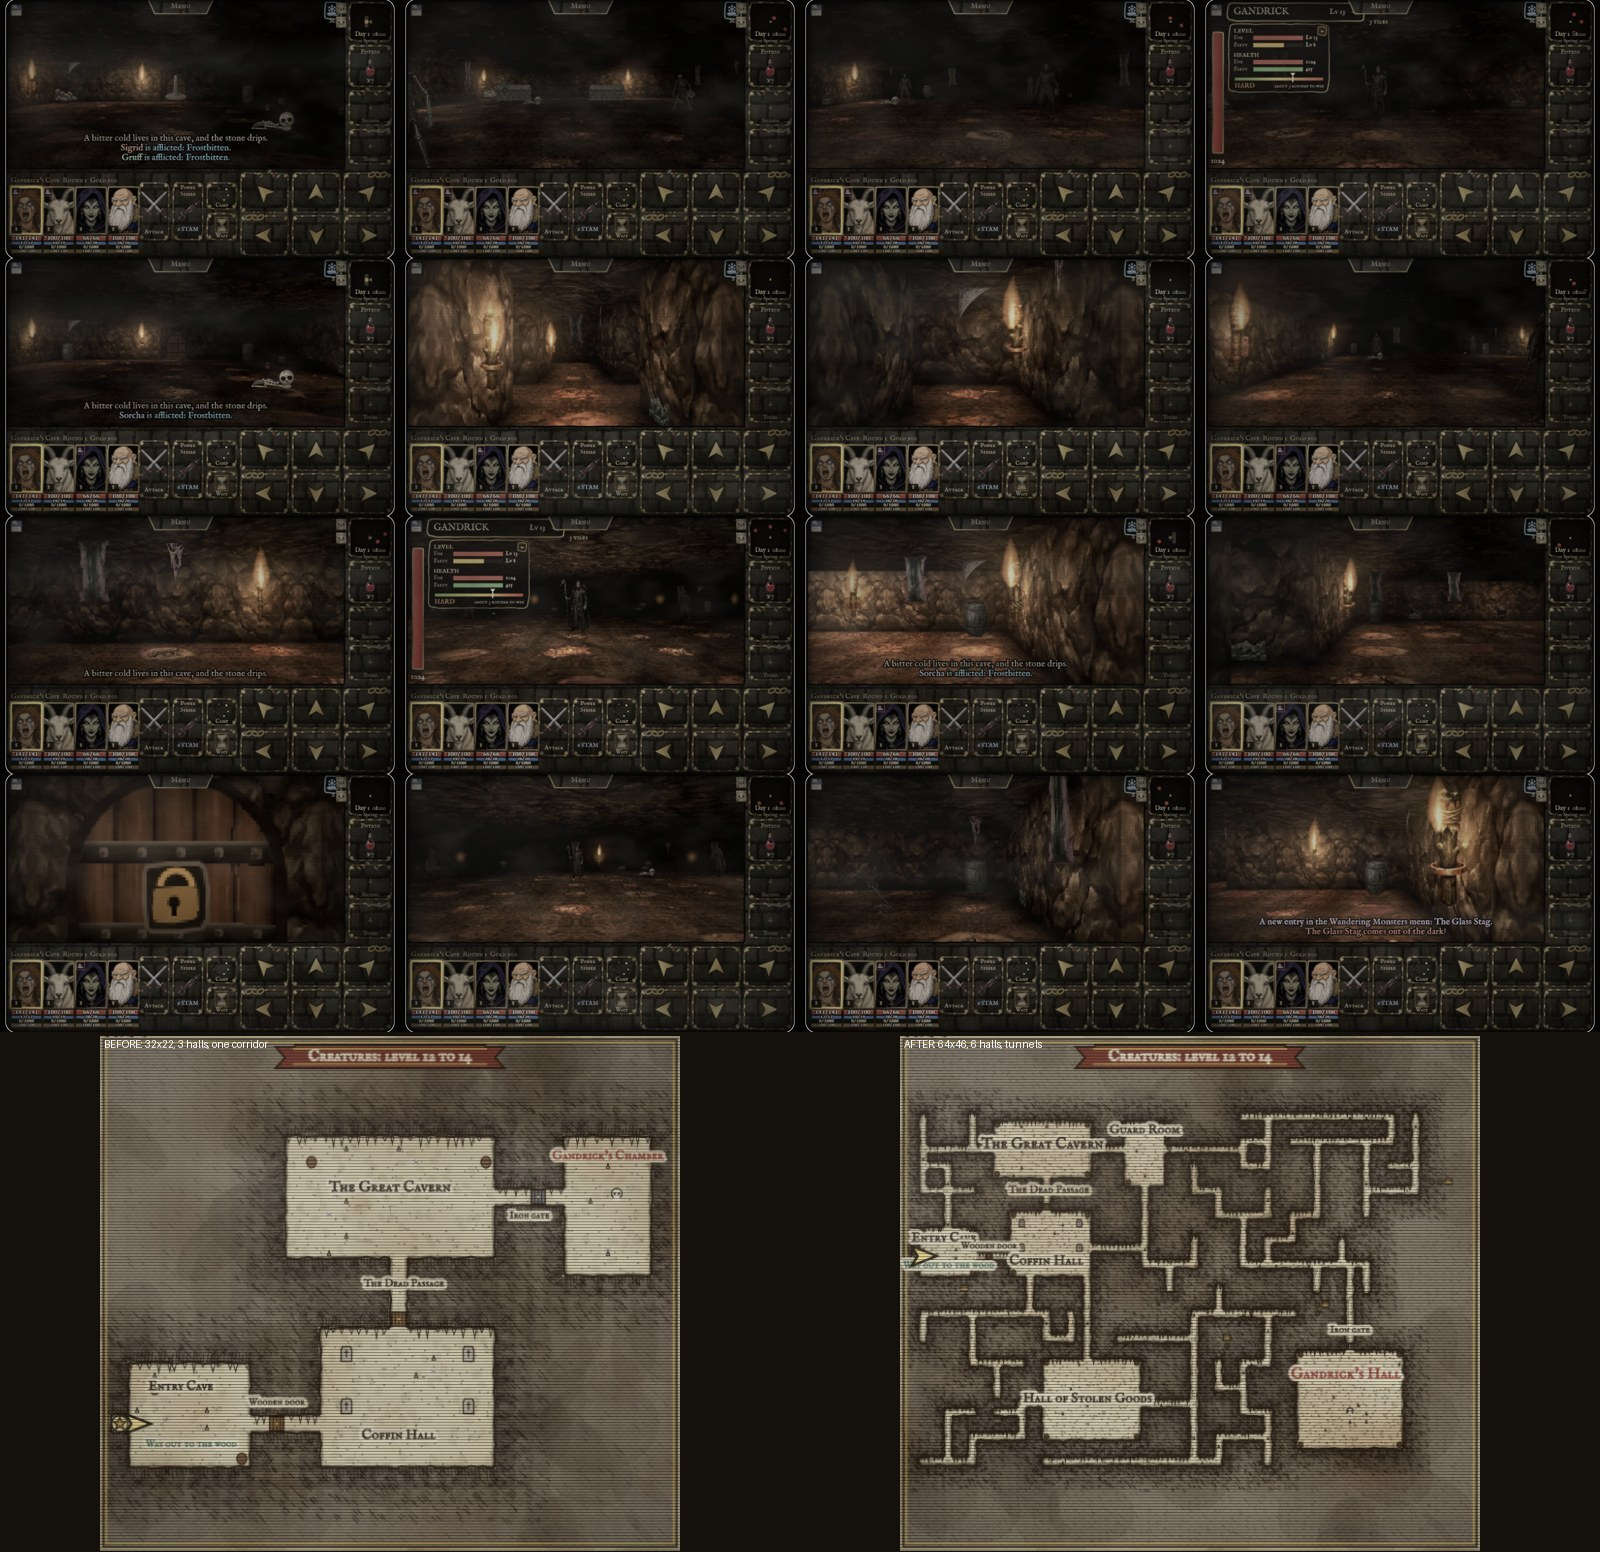
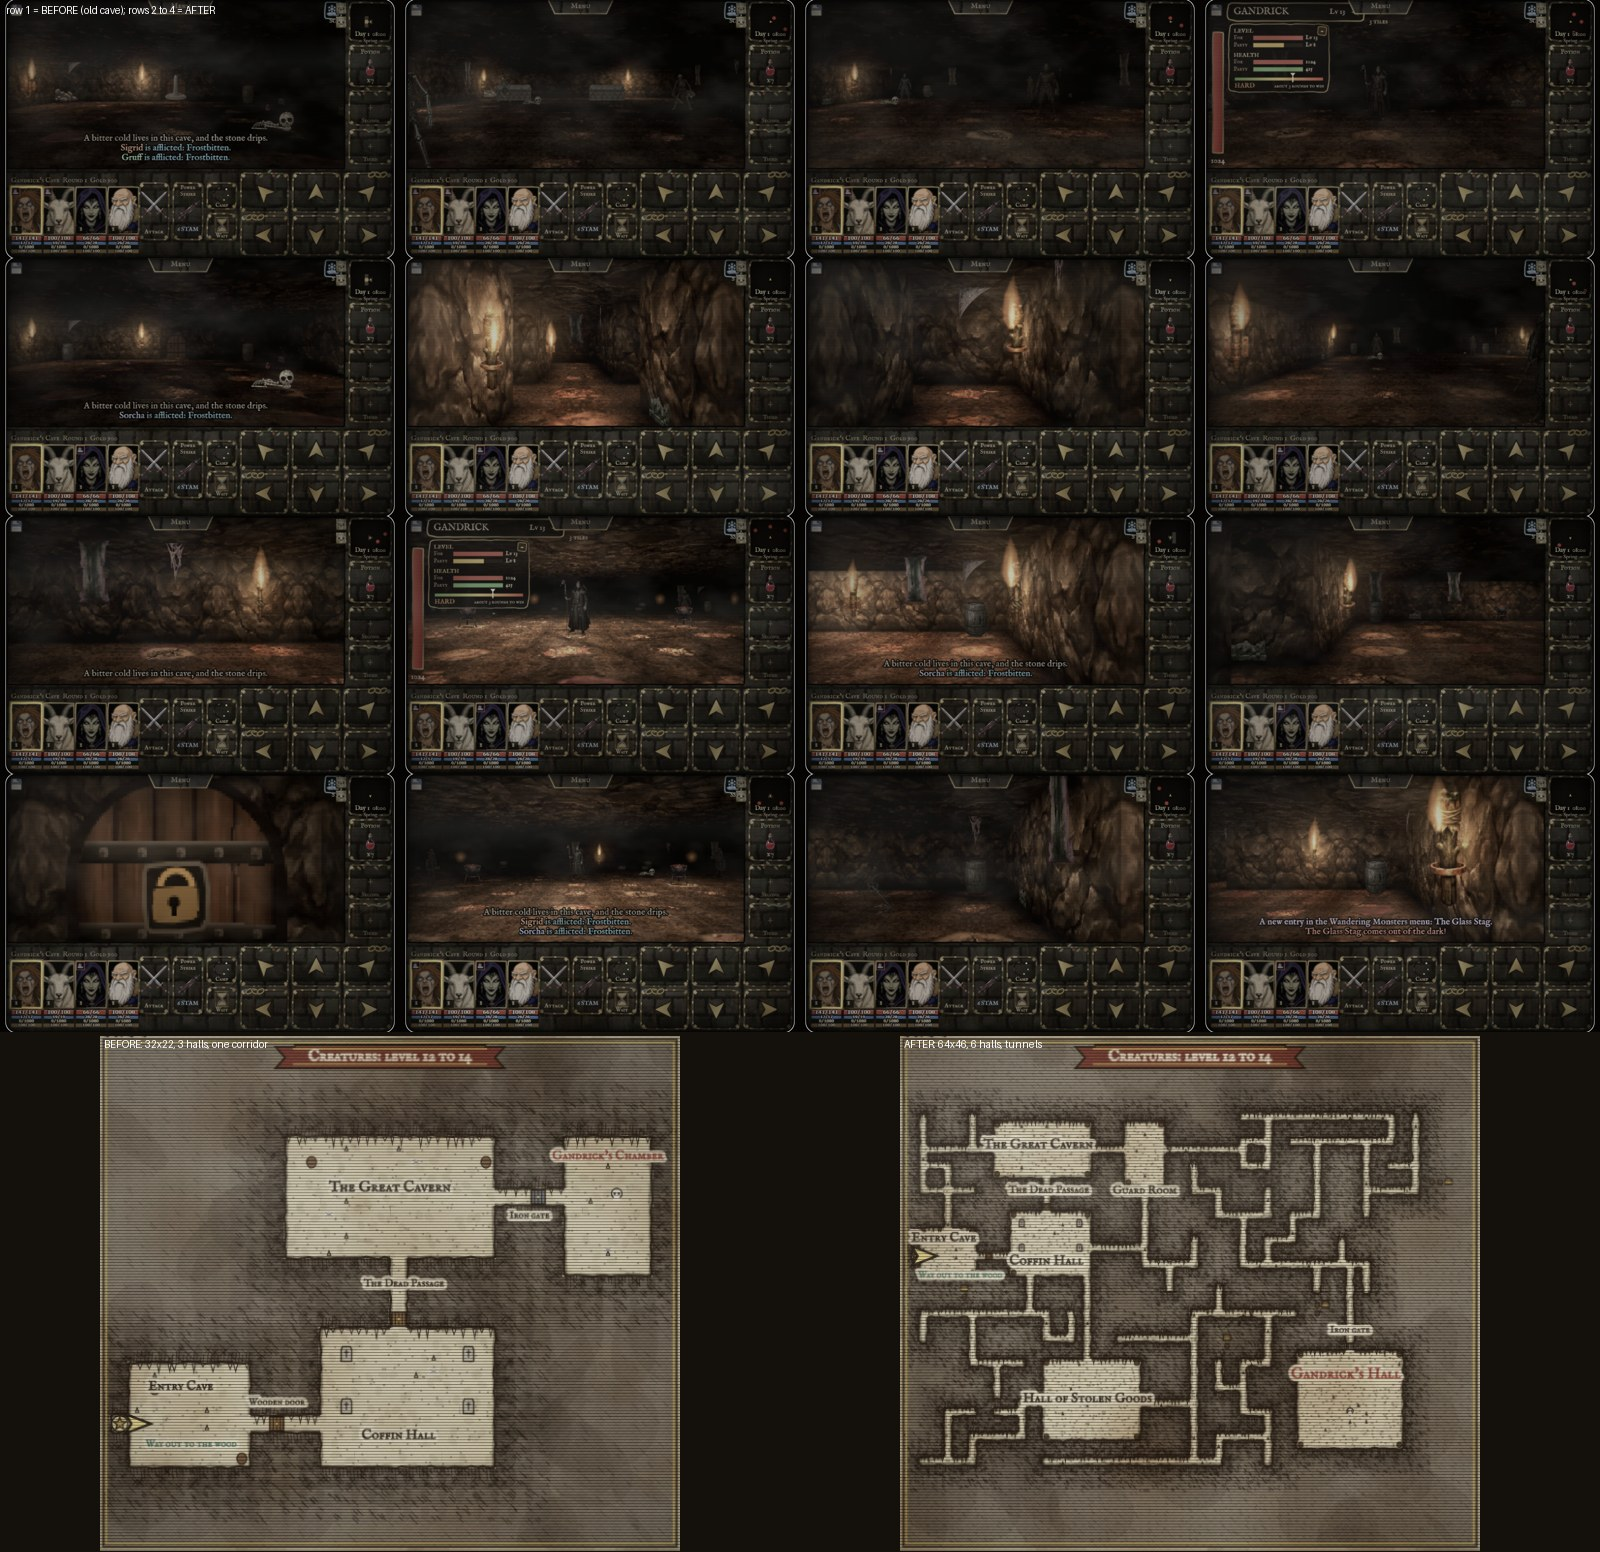
Gandrick's hall brighter, map labels tidied, sr test covers level 8

diff --git a/src/desert/gandrick_cave.js b/src/desert/gandrick_cave.js
@@ -35,10 +35,10 @@ function gcSecretBarrels(s){const k=c=>c[0]+','+c[1],cells=s.cells,ent=cells.fin
   return out}
 /* braziers: the big halls are too dark for the wall torches alone, and Gandrick has to be seen. A painted brazier (ep_brazier) against a wall of each hall, with a warm light;
    put in once the early_polish pictures are loaded, the same way the secret rooms get their lamps. Not solid. */
-const GC_BRAZ={coffin:[[16,13],[16,20]],cavern:[[14,2],[19,8]],guard:[[28,2]],stolen:[[19,31],[24,31],[19,40],[24,40]],gandrick:[[50,30],[56,30],[47,35],[59,35],[50,41],[56,41]]},GC={gd:null};
+const GC_BRAZ={coffin:[[16,13],[16,20]],cavern:[[14,2],[19,8]],guard:[[28,2]],stolen:[[19,31],[24,31],[19,40],[24,40]],gandrick:[[50,30],[56,30],[47,35],[59,35],[50,41],[56,41],[51,36],[55,36]]},GC={gd:null};
 function gcBraziers(){if(LEVEL!==8||!G.decor||!G.P||typeof EP==='undefined'||!EP.ready||!IMG.ep_brazier||GC.gd===G.decor)return;GC.gd=G.decor;let i=0;
   for(const hall of Object.keys(GC_BRAZ))for(const [x,y] of GC_BRAZ[hall]){i++;
     if(!G.decor.some(d=>d.gcB===i))G.decor.push({k:'ep_brazier',x,y,block:false,deco:true,loot:false,shop:false,sc:.8,oy:.1,gcB:i});
     if(!LIGHTS.some(l=>l.gcB===i))LIGHTS.push({x:x+.5,y:y+.5,ph:hash2(x,y,11)*6.28,key:-7500-i,taken:false,red:false,free:true,lamp:true,calm:false,kI:hall==='gandrick'?1.35:.95,col:[1.35,.86,.46],range2:40,gcB:i})}
-  [[16,16.5,.8],[15,5,.8],[21.5,35.5,.8],[53.5,34,1.1],[53.5,38,1.2],[49.5,37,1.0],[57.5,37,1.0]].forEach(([x,y,k],j)=>{if(!LIGHTS.some(l=>l.gcL===j+1))LIGHTS.push({x,y,ph:j*1.9,key:-7600-j,taken:false,red:false,free:true,lamp:true,calm:false,kI:k,col:[1.3,.9,.55],range2:40,gcL:j+1})})}
+  [[16,16.5,.8],[15,5,.8],[21.5,35.5,.8],[53.5,34,1.3],[53.5,38,1.7],[53.5,36,1.5],[49.5,37,1.1],[57.5,37,1.1]].forEach(([x,y,k],j)=>{if(!LIGHTS.some(l=>l.gcL===j+1))LIGHTS.push({x,y,ph:j*1.9,key:-7600-j,taken:false,red:false,free:true,lamp:true,calm:false,kI:k,col:[1.3,.9,.55],range2:40,gcL:j+1})})}
 {const _dw=drawWorld;drawWorld=function(){try{if(LEVEL===8)gcBraziers()}catch(e){}return _dw.apply(this,arguments)}}

diff --git a/src/desert/maps_gwood.js b/src/desert/maps_gwood.js
@@ -153,9 +153,9 @@ function mpGwoodDrawCave(x,L,api){
   x.restore();
   const T=(t,cx,cy,sz,col)=>mplText(x,t,X(cx),Y(cy),sz||6.8,col||MPL.INK);
   if(LEVEL===8){
-    T('The Great Cavern',16,5,8,MPL.INK);T("Gandrick's Hall",53,33,8,MPL.VERM);MPLI.skull(x,X(53.5),Y(37.5),u*.12);
-    T('Coffin Hall',16.5,19.2,7.2);T('The Dead Passage',16.8,10.5,5.6);T('Entry Cave',4,16.4,6.8);T('Way out to the wood',4.6,19.7,5.2,MPL.VERD);
-    T('Wooden door',9.5,17.3,5);T('Iron gate',53.5,27.6,5);T('Guard Room',28.5,3.2,6.6);T('Hall of Stolen Goods',21.5,36,7)}
+    T('The Great Cavern',15.5,5,7.2,MPL.INK);T("Gandrick's Hall",53,33,8,MPL.VERM);MPLI.skull(x,X(53.5),Y(37.5),u*.12);
+    T('Coffin Hall',16.5,19.2,7.2);T('The Dead Passage',16.8,10.5,5.6);T('Entry Cave',4,16.4,6.8);T('Way out to the wood',6,20.9,4.8,MPL.VERD);
+    T('Iron gate',53.5,27.6,5);T('Guard Room',28.5,10.6,6);T('Hall of Stolen Goods',21.5,36,7)}
   else{
     T('Bandit Room',3.5,2.5,u*.34);T('Treasure Room',10.5,2.5,u*.3,MPL.VERM);T('The Way In',3.5,6.5,u*.3,MPL.VERD);T('Way out to the wood',3.5,8.55,u*.26,MPL.VERD)}
 }

diff --git a/tools/sr_secret_test.py b/tools/sr_secret_test.py
@@ -114,7 +114,7 @@ def main():
         with open(os.path.join(os.environ.get('TEMP', '.'), 'sr_whole.json'), 'w') as f:
             json.dump({str(k): v for k, v in built.items()}, f)
         # ---------------- samples ----------------
-        samples = [497, 475, 471, 42, 53, 9674]
+        samples = [497, 475, 471, 42, 53, 9674, 8]
         mon_lv = [n for n, r in built.items() if r['mon'] and r['rooms'] and n not in samples]
         if mon_lv:
             samples.append(mon_lv[0])
